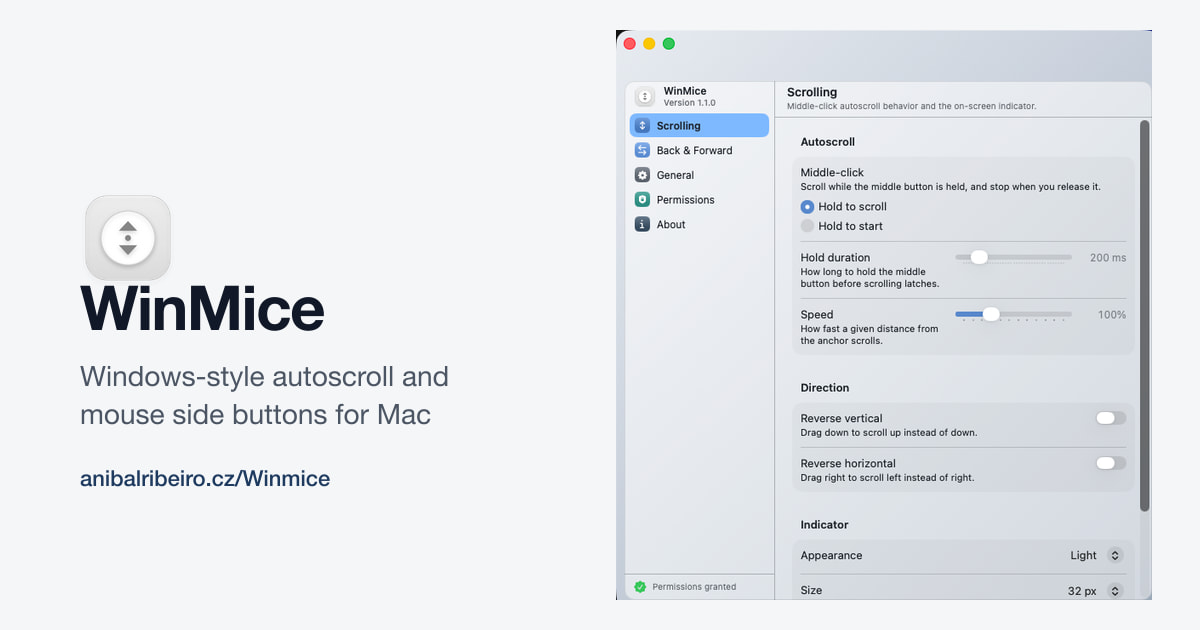
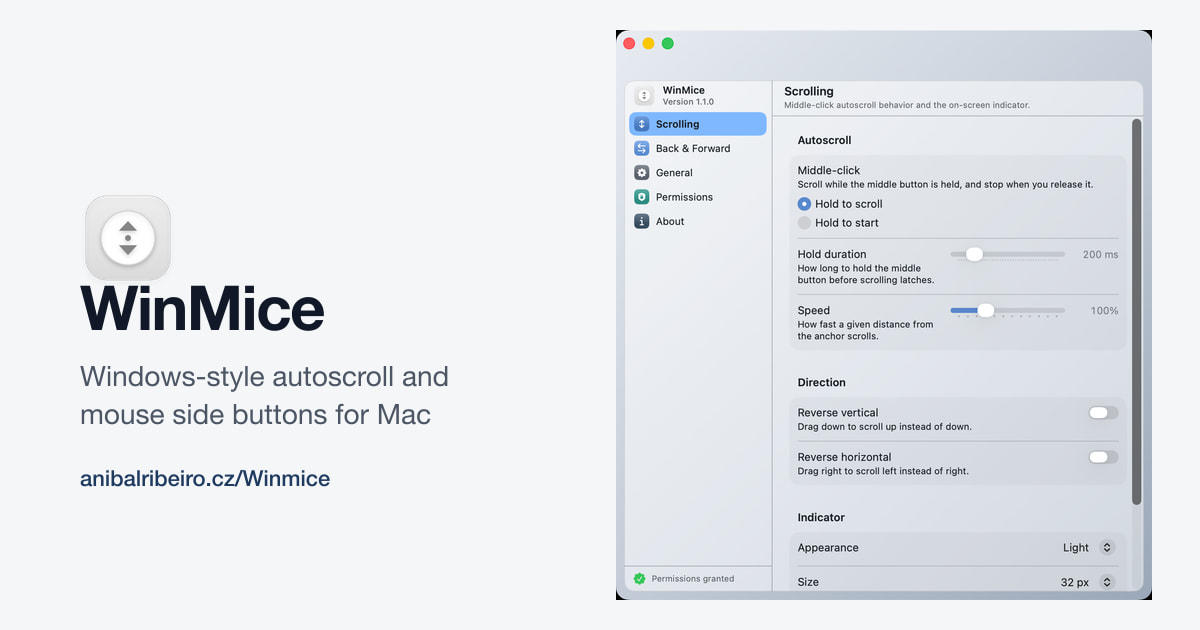
feat: replace WinMice screenshots with 2x captures at native window size
A 1x screenshot cannot be both legible and sharp: legibility depends on the
rendered size, sharpness on pixels per rendered pixel, and with 1x data the
only way to buy the second is to give up the first.

These captures are 2x (1504x1584 at 144dpi, a 1280x1360 window body = 640x680
pt), so both hold at once. The images render at the window's true 640pt width,
keeping the UI text the size macOS drew it, and densities={[1, 2]} emits a
srcset so 1x clients fetch a 640px file (~22 KB) and Retina clients a 1280px
one (~50 KB).

The OG card is recomposed from the new Scrolling capture. Its filename is
unchanged, so social platforms need a manual re-scrape to drop the old copy.

diff --git a/tests/build.test.ts b/tests/build.test.ts
@@ -357,15 +357,16 @@ describe('Winmice product page', () => {
     expect(alts).not.toContain('WinMice Settings, About pane');
   });
 
-  it('renders screenshots below their intrinsic width to stay sharp on Retina', () => {
+  it('serves screenshots at native window size with a 2x Retina candidate', () => {
     const { document } = parsePage('Winmice/index.html');
     const shots = [...document.querySelectorAll('img')].filter((img) =>
       (img.getAttribute('alt') ?? '').includes('Settings,'),
     );
     expect(shots).toHaveLength(4);
     for (const shot of shots) {
-      expect(Number(shot.getAttribute('width'))).toBe(630);
-      expect(Number(shot.getAttribute('height'))).toBe(670);
+      expect(Number(shot.getAttribute('width'))).toBe(640);
+      expect(Number(shot.getAttribute('height'))).toBe(680);
+      expect(shot.getAttribute('srcset')).toMatch(/\s2x(,|$)/);
     }
   });
 

diff --git a/tests/product-css.test.ts b/tests/product-css.test.ts
@@ -15,11 +15,11 @@ describe('WinMice product hero layout', () => {
 });
 
 describe('WinMice screenshot legibility', () => {
-  // The captures come from a 1x display, so the UI text inside them is only
-  // legible at 1:1. Rendering them smaller shrinks that text below readability.
-  it('never renders a screenshot below its 630px native width', () => {
+  // The Settings window is 640pt wide. Rendering it at that width keeps its UI
+  // text at the size macOS drew it, while the 2x source keeps it sharp.
+  it('renders a screenshot at the 640pt width of the window it shows', () => {
     const img = css.match(/\.feature-grid img\s*\{([^}]*)\}/s);
-    expect(img?.[1]).toMatch(/max-width\s*:\s*630px/);
+    expect(img?.[1]).toMatch(/max-width\s*:\s*640px/);
   });
 
   it('stacks the feature grid so screenshots have room for native width', () => {

diff --git a/src/styles/product.css b/src/styles/product.css
@@ -68,12 +68,11 @@
   color: var(--text);
 }
 
-/* The captures come from a 1x display, so 630px is all the detail there is.
-   Rendering them 1:1 keeps their UI text at the size macOS drew it; anything
-   smaller shrinks that text below readability, and anything larger just blurs. */
+/* The Settings window these show is 640pt wide. Rendering at that width keeps
+   its UI text the size macOS drew it, and the 2x sources keep it sharp. */
 .feature-grid img {
   width: 100%;
-  max-width: 630px;
+  max-width: 640px;
   height: auto;
   border-radius: 8px;
   margin: 0.75rem auto 0;

diff --git a/docs/superpowers/specs/2026-09-04-winmice-page-v110-design.md b/docs/superpowers/specs/2026-09-04-winmice-page-v110-design.md
@@ -24,51 +24,46 @@ copy and sizes, and the `v1.1.0` GitHub release notes for what changed.
 
 ### Source material
 
-Five 1x captures of the Settings window, 636×681 px PNG: Scrolling, Back &
-Forward, General, Permissions, About.
+Five Retina window captures of the Settings window, 1504×1584 px PNG at 144
+dpi: Scrolling, Back & Forward, General, Permissions, About.
 
-They carry an alpha channel but it is fully opaque — these are region captures,
-not window captures, so instead of a transparent shadow ring they include a
-strip of desktop wallpaper. Measured from the blue cast of the wallpaper, the
-window sits flush to the top and left, with 6 px of wallpaper down the right
-edge and 11 px along the bottom. All five are geometrically identical, so one
-crop box serves all of them: `left 0, top 0, 630×670`.
+Each frame is the window plus its semi-transparent drop shadow. The opaque
+window body measures 1280×1360 px — that is 640×680 logical points at 2x. All
+five are geometrically identical, so one crop box serves all of them:
+`left 112, top 76, 1280×1360`.
 
-### Density approach
+An earlier round used 1x captures (636×681, region grabs including desktop
+wallpaper). Those are superseded: a 1x source cannot be both legible and sharp,
+for the reason set out below.
 
-The captures are non-Retina. Upscaling them adds no detail — it produces a
-larger, softer file. Instead, keep native pixels and constrain the rendered
-size so each image displays at roughly half its pixel width.
+### Sizing approach
 
-`.feature-grid` currently declares `display: grid` with a gap but **no**
-`grid-template-columns`, so it is single-column at every viewport and its
-images render about 766 CSS px wide. At that size a 636 px capture would be
-*upscaled by the browser* — visibly soft. Fixing the grid is therefore part of
-fixing the screenshots, not a cosmetic aside.
+A screenshot of a UI has two independent requirements, and they pull in
+opposite directions on a 1x source:
 
-Adopt the pattern `.project-grid` already uses in `global.css`:
+- **Legibility** depends on *rendered* size. The window's text is drawn at a
+  fixed point size, so rendering the image below 1:1 shrinks that text.
+- **Sharpness** depends on pixels per rendered CSS pixel.
 
-```
-grid-template-columns: 1fr 1fr;   /* collapsing to 1fr at max-width: 700px */
-```
+With a 1x source you can only buy sharpness by rendering smaller, which
+destroys legibility. An earlier attempt capped these images at 360 px for
+~1.8x density and rendered the capture at 57%, shrinking macOS's ~13 px labels
+to roughly 7 px: sharp per pixel, and unreadable. That is the whole reason the
+captures were redone at 2x.
 
-The resulting arithmetic, with `main` at `52rem` and `1.25rem` padding:
+With a 2x source both requirements are satisfied at once. Render at the
+window's true 640 pt width and serve a 1280 px file to Retina clients:
 
-| Quantity | Value |
-|---|---|
-| `main` content width | 832 − 40 = 792 px |
-| Column width (2 cols, 20 px gap) | 386 px |
-| Image width (article padding 1rem × 2) | 354 px |
-| Effective density at 636 px intrinsic | ~1.8x |
+- `.feature-grid img` gets `max-width: 640px`, so the UI text appears at
+  exactly the size macOS drew it.
+- `<Image densities={[1, 2]} width={640} height={680} />` emits a `srcset`
+  with a 640 px candidate at `1x` and a 1280 px candidate at `2x`, so 1x
+  clients fetch ~22 KB and Retina clients ~50 KB.
 
-`.feature-grid img` also gets `max-width: 360px` with auto margins as a safety
-net. On desktop this is a near no-op, since the column already yields 354 px;
-it only binds in the ~620–700 px viewport band where the grid has collapsed but
-the viewport is still wide. Below that, narrow Retina phones land near 2x on
-their own (a 390 px viewport gives a 318 px image).
-
-Constraining rendered width is the only mechanism that makes a 1x capture look
-sharp on a Retina display, and it costs nothing in bytes.
+`.feature-grid` stays single-column: `main` is `52rem` with `1.25rem` padding,
+giving 792 px of content, so a 640 px image fits with room to spare. A
+two-column layout would cap each column near 354 px and reintroduce the
+legibility problem.
 
 ### Processing
 
@@ -158,8 +153,12 @@ inset 48 px from the edge. Background is `#f4f6f8`, the site's `--bg`, and the
 type uses the site's `--text`, `--muted`, and `--accent`. The site is
 light-only, so no dark variant is needed.
 
-Scaling 670 px down to 570 px keeps the UI text sharp.
+Scaling the 1360 px capture down to 570 px keeps the UI text sharp.
 `ogImageWidth` / `ogImageHeight` in `index.astro` update to match.
+
+Note the filename does not change between rounds, so social platforms will
+serve their cached copy until the URL is re-scraped through their post
+inspector tools.
 
 ## Testing
 
